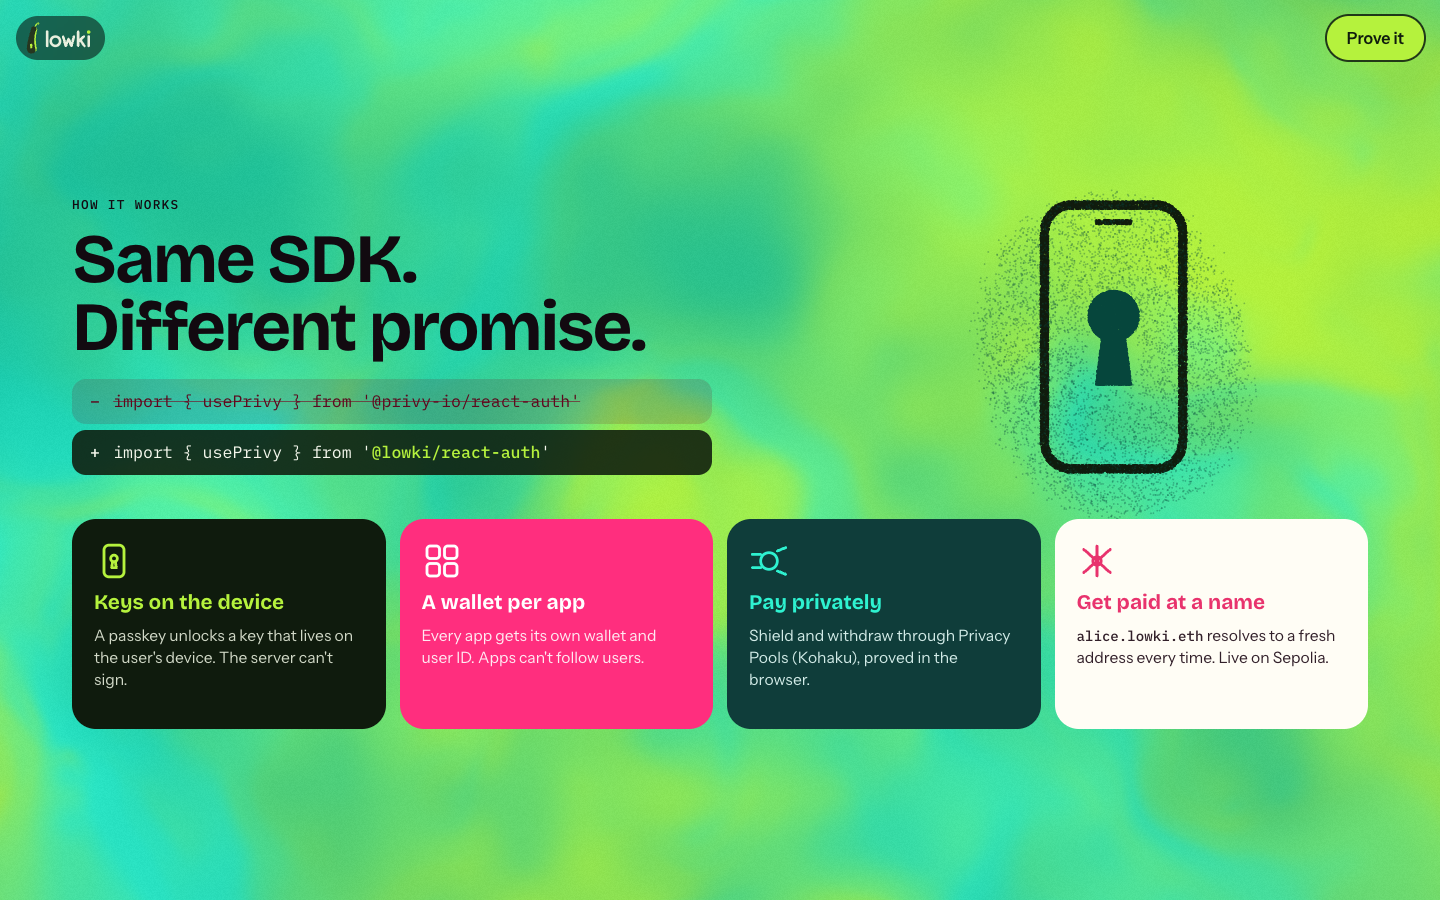
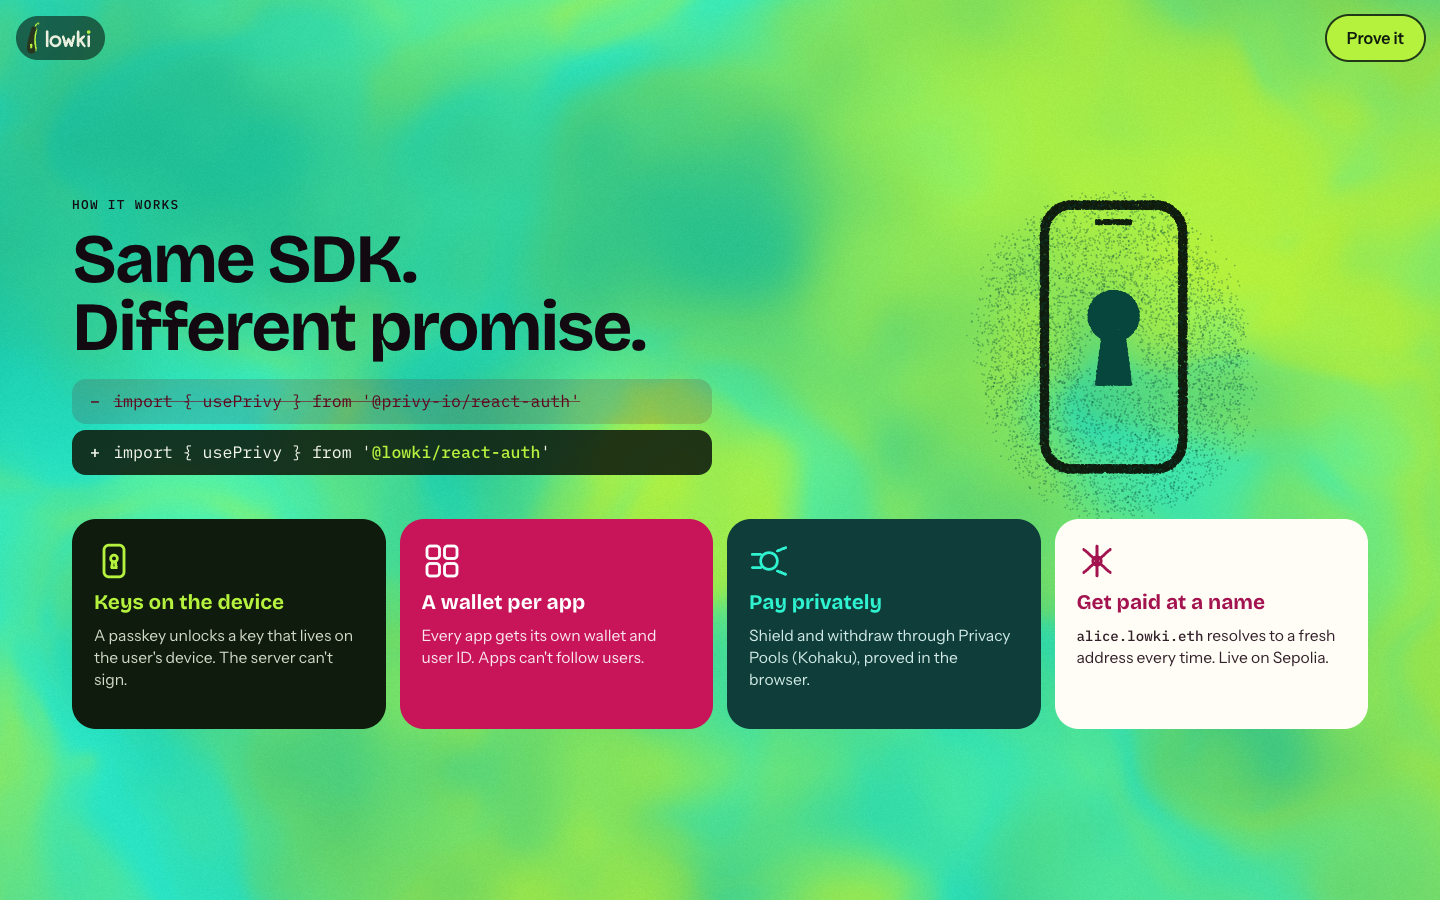
fix(site): drop the navy fields and fix contrast
Hero, race and links on Lowki ink with lime light; who-sees-what and numbers on near-opaque cream panels over a warm field; darker magenta and red accents; solid result pill in the race.

diff --git a/apps/site/src/styles.css b/apps/site/src/styles.css
@@ -11,7 +11,7 @@
 *, *::before, *::after { box-sizing: border-box; }
 html { scroll-snap-type: y proximity; -webkit-text-size-adjust: 100%; }
 @media (prefers-reduced-motion: no-preference) { html { scroll-behavior: smooth; } }
-body { margin: 0; background: #07061F; color: var(--cream); font: 400 1rem/1.5 var(--lk-font-text); -webkit-font-smoothing: antialiased; overflow-x: hidden; }
+body { margin: 0; background: #0F1B0D; color: var(--cream); font: 400 1rem/1.5 var(--lk-font-text); -webkit-font-smoothing: antialiased; overflow-x: hidden; }
 img { display: block; max-width: 100%; }
 .mono { font-family: var(--lk-font-mono); }
 :focus-visible { outline: 3px solid currentColor; outline-offset: 4px; border-radius: 8px; }
@@ -196,3 +196,30 @@ a.demo[href]:hover { background: rgb(181 242 61 / 0.18); }
   .steps4 li { padding: 16px; min-height: 0; }
   .big, .hero .big { font-size: clamp(2.2rem, 9vw, 3rem); }
 }
+
+/* ---- v4: brand palette, contrast ---- */
+:root:not(.gpu) .s0, :root:not(.gpu) .s9 { background: radial-gradient(80% 80% at 70% 50%, #1F4A14, #0F1B0D 70%); }
+:root:not(.gpu) .s6 { background: radial-gradient(80% 80% at 50% 50%, #1A3310, #050A05 70%); }
+:root:not(.gpu) .s7 { background: linear-gradient(135deg, #FFB000, #FF6A00 50%, #E8336D); }
+.soon { opacity: 0.85; }
+.sub.small { opacity: 1; }
+.facts .copy { background: rgb(255 250 240 / 0.9); color: #1A0612; padding: 28px; border-radius: 28px; }
+.facts .kicker { color: #8A1C3A; opacity: 1; }
+.sees .head span { opacity: 1; }
+.sees .yes { background: #B3123A; color: #fff; }
+.sees .no { background: #B5F23D; color: #0F1B0D; }
+.sees .part { background: #FFB000; color: #1A0612; }
+.st-magenta, .c-magenta { background: #C8155A; color: #fff; }
+.stat em { opacity: 0.9; }
+.c-coral svg, .c-coral b { color: #A3134F; }
+.how .kicker { opacity: 1; }
+.race-ui .big, .race-ui .sub { text-shadow: 0 2px 24px rgb(0 0 0 / 0.7); }
+.side { background: rgb(5 10 5 / 0.78); }
+.x { background: rgb(5 10 5 / 0.82); -webkit-background-clip: border-box; background-clip: border-box; color: var(--lk-lime); padding: 8px 28px 12px; border-radius: 24px; }
+.x:empty { padding: 0; background: none; }
+.ok { color: var(--lk-lime); }
+.race-note { opacity: 1; }
+.btn-glass { background: rgb(5 10 5 / 0.55); color: #F4F7EC; }
+.demo { background: rgb(5 10 5 / 0.55); }
+.audit { opacity: 1; }
+.race-ui .sub { background: rgb(5 10 5 / 0.72); padding: 6px 16px; border-radius: 999px; }

diff --git a/apps/site/src/main.ts b/apps/site/src/main.ts
@@ -8,16 +8,16 @@ const $ = (id: string) => document.getElementById(id)!;
 // One colour world per scene: background field (3 colours), particle colours, light or ink.
 const LIME = "#B5F23D", TEAL = "#2EF2D0", INK = "#0F1B0D";
 export const STYLES: SceneStyle[] = [
-  { bg: ["#07061F", "#1E1366", "#0A1F12"], p: [LIME, TEAL], add: 1, alpha: 0.6, size: 1.7, ext: [1, 1] }, // night + lime light
+  { bg: ["#0F1B0D", "#1F4A14", "#050A05"], p: [LIME, TEAL], add: 1, alpha: 0.6, size: 1.7, ext: [1, 1] }, // night + lime light
   { bg: ["#B5F23D", "#2EF2D0", "#0FB89C"], p: [INK, "#06463C"], add: 0, alpha: 0.9, size: 1.5, ext: [1, 1] }, // lime -> teal
   { bg: ["#021A1E", "#00566A", "#160A45"], p: [LIME, TEAL], add: 1, alpha: 0.55, size: 1.4, ext: [1, 0.5] }, // teal night
   { bg: ["#FFB000", "#FF6A00", "#FF2E7E"], p: ["#1A0612", "#FFF6E8"], add: 0, alpha: 0.92, size: 1.5, ext: [1.12, 1.12] }, // saffron -> magenta
   { bg: ["#020402", "#0B1F0D", "#173A14"], p: ["#FF6B4A", LIME], add: 1, alpha: 0.65, size: 1.6, ext: [1.75, 0.95] }, // private: ink + lime glow
   { bg: ["#FF5A5F", "#E8336D", "#5B1A8C"], p: ["#FFF4E6", "#FFD23F"], add: 0, alpha: 0.95, size: 1.5, ext: [1.2, 0.8] }, // sunset coral
-  { bg: ["#020403", "#06140A", "#0B1B2E"], p: [LIME, TEAL], add: 1, alpha: 0.55, size: 1.5, ext: [1, 1] }, // the race: night
-  { bg: ["#0077B6", "#1B4DFF", "#2A1B7A"], p: ["#9BF6FF", "#FFFFFF"], add: 1, alpha: 0.35, size: 1.4, ext: [1, 1] }, // electric blue
+  { bg: ["#050A05", "#0F1B0D", "#1A3310"], p: [LIME, TEAL], add: 1, alpha: 0.55, size: 1.5, ext: [1, 1] }, // the race: night
+  { bg: ["#FFB000", "#FF6A00", "#E8336D"], p: ["#1A0612", "#FFF6E8"], add: 0, alpha: 0.25, size: 1.4, ext: [1, 1] }, // electric blue
   { bg: ["#FFD23F", "#B5F23D", "#FF9F45"], p: [INK, "#FFFFFF"], add: 0, alpha: 0.38, size: 1.5, ext: [1, 0.85] }, // sunrise
-  { bg: ["#07061F", "#2A1B7A", "#0A3B1E"], p: [LIME, TEAL], add: 1, alpha: 0.6, size: 1.7, ext: [1, 1] }, // back to night
+  { bg: ["#0F1B0D", "#2E4A0E", "#050A05"], p: [LIME, TEAL], add: 1, alpha: 0.6, size: 1.7, ext: [1, 1] }, // back to night
 ];
 
 // ---- links from site-config.json ----------------------------------------------------------------

diff --git a/apps/site/src/index.html b/apps/site/src/index.html
@@ -6,7 +6,7 @@
 <title>Lowki · wallets your users own</title>
 <meta name="description" content="Lowki: the drop-in Privy wallet where keys stay on the device, apps can't follow users, and payments can be private. Prove a private payment right here.">
 <meta name="referrer" content="no-referrer">
-<meta name="theme-color" content="#07061F">
+<meta name="theme-color" content="#0F1B0D">
 <link rel="icon" href="logo/favicon.svg" type="image/svg+xml">
 <link rel="preload" href="fonts/bricolage-grotesque-latin-700-normal.woff2" as="font" type="font/woff2" crossorigin>
 <link rel="stylesheet" href="tokens.css">
@@ -78,7 +78,7 @@
     </div>
   </section>
 
-  <section class="scene s7 ink-light facts" id="who" data-scene="7">
+  <section class="scene s7 ink-dark facts" id="who" data-scene="7">
     <div class="art art-full"></div>
     <div class="facts-grid">
       <div class="copy">
